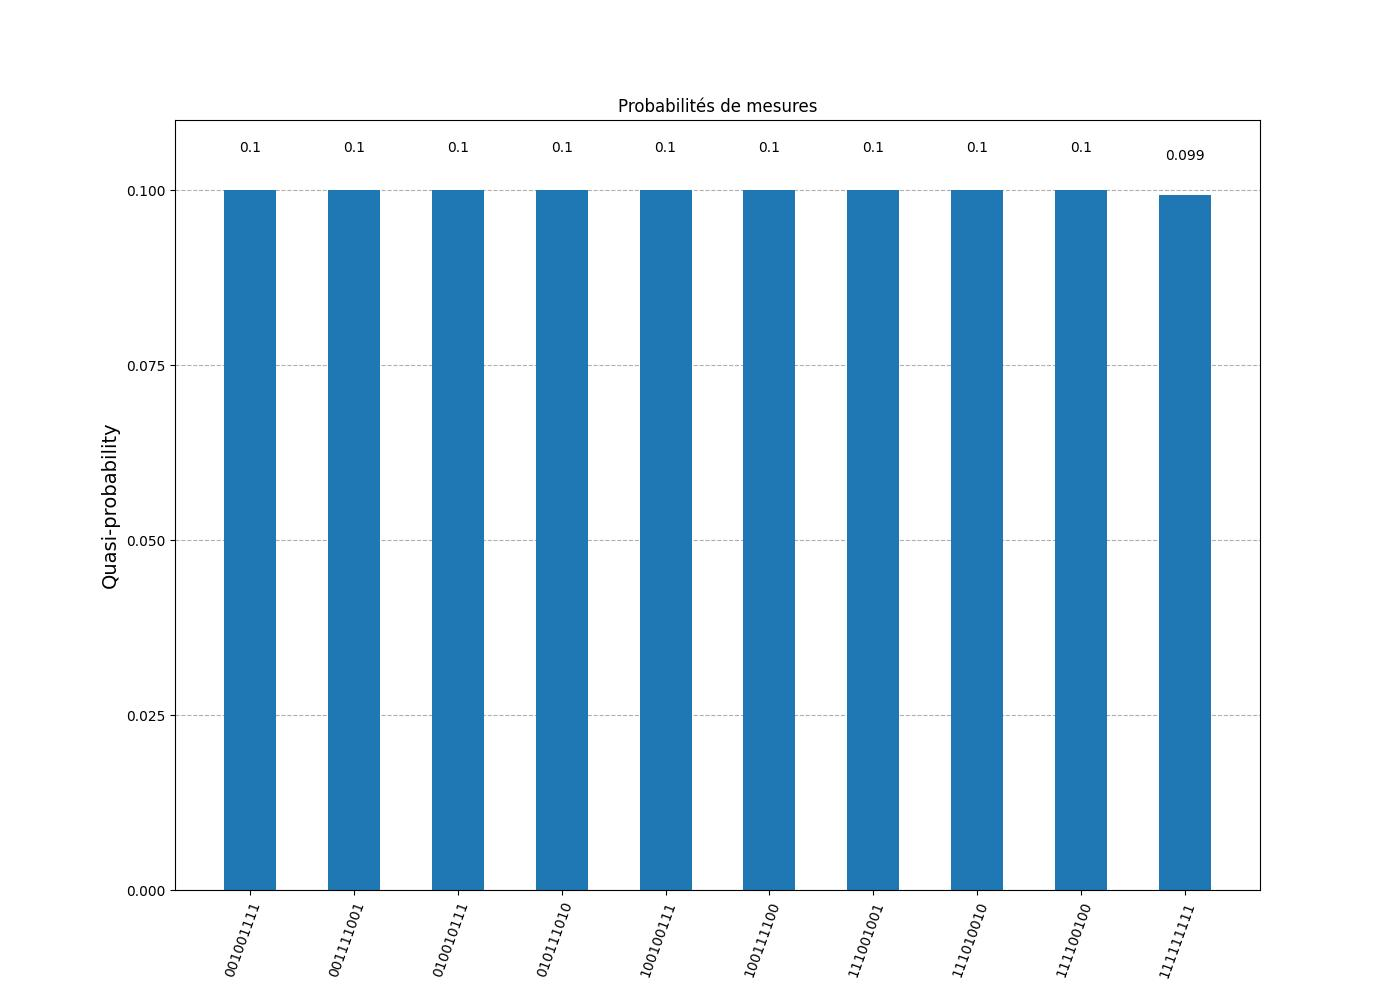
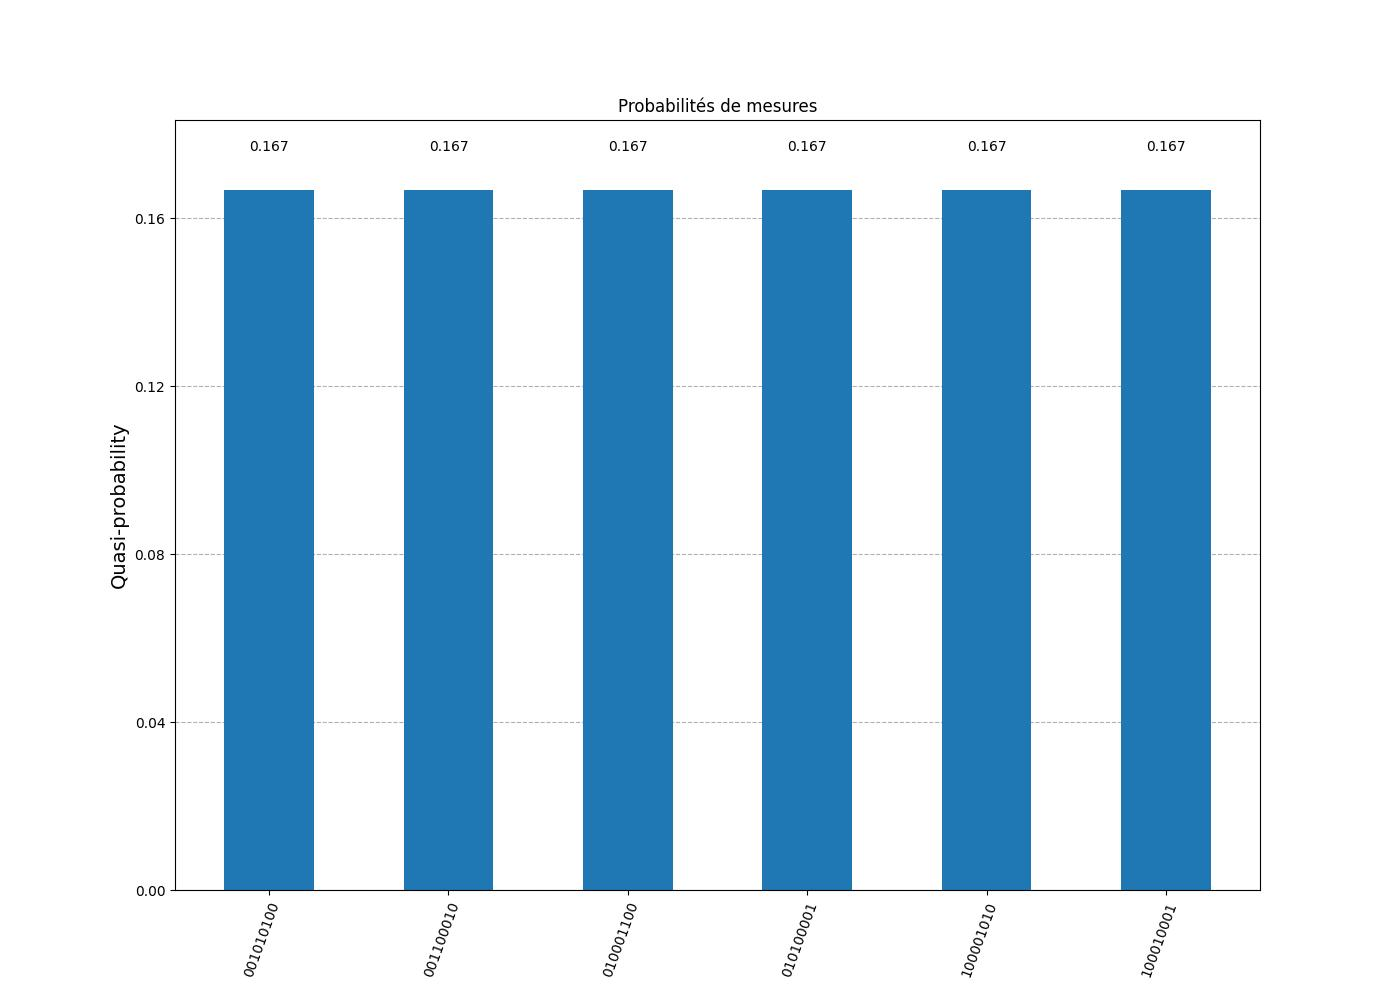
fixed oracle solution

diff --git a/sudoku_3x3.py b/sudoku_3x3.py
@@ -18,40 +18,49 @@ def draw_histogram(qc: QuantumCircuit, file_name):
     # On formate attribues les probabilités à leurs vecteur d'états associé (ex: 7 = 0111)
     probabilites = {format(i, "09b"): probabilites[i] for i in range(512)}
 
-    probabilites = dict(filter(lambda item: item[1] > 0.004, probabilites.items()))
+    # si on veut filtrer les probabilitées pour seulement afficher ceux en haut d'un certain seuil
+    probabilites = dict(filter(lambda item: item[1] > 0.002, probabilites.items()))
 
     plot_histogram(probabilites, figsize=(14,10), title="Probabilités de mesures", filename=output_path)
     print("Un histogramme illustrant les probabilités de résultat à été généré à ", output_path)
 
+# Contraintes sur les lignes et colonnes
+def valider_condition(qc, qubits, ancilla):
+    a, b, c = qubits
+
+    # avec les XOR (cnot), on vérifie qu'il y a un ou trois 1 sur la ligne/colonne
+    qc.cx(a, ancilla)
+    qc.cx(b, ancilla)
+    qc.cx(c, ancilla)
+
+    # avec un CCCNOT, on retire le fait que trois 1 est valide
+    qc.mcx([a, b, c], ancilla)
+
 def oracle_sudoku(qc: QuantumCircuit) -> QuantumCircuit:
-    c_nots = []
 
-    # Contraintes sur les lignes
-    c_nots.extend([[0,9], [1,9], [2,9]])    # ligne#1 ne doit pas avoir tout des 0 et ne doit pas avoir deux 1
-    qc.mcx([0,1,2], 9)                      # ligne#1 ne doit pas contenir trois 1
-    c_nots.extend([[3,10], [4,10], [5,10]]) # ligne#2 ne doit pas avoir tout des 0 et ne doit pas avoir deux 1
-    qc.mcx([3,4,5], 10)                     # ligne#2 ne doit pas contenir trois 1
-    c_nots.extend([[6,11], [7,11], [8,11]]) # ligne#3 ne doit pas avoir tout des 0 et ne doit pas avoir deux 1
-    qc.mcx([6,7,8], 11)                     # ligne#3 ne doit pas contenir trois 1
+    # valider les conditions sur les lignes
+    valider_condition(qc, [0,1,2], 9)
+    valider_condition(qc, [3,4,5], 10)
+    valider_condition(qc, [6,7,8], 11)
 
-    # Contraintes sur les colonnes
-    c_nots.extend([[0,12], [3,12], [6,12]]) # colonne#1 ne doit pas avoir tout des 0 et ne doit pas avoir deux 1
-    qc.mcx([0,3,6], 12)                     # colonne#1 ne doit pas contenir trois 1
-    c_nots.extend([[1,13], [4,13], [7,13]]) # colonne#2 ne doit pas avoir tout des 0 et ne doit pas avoir deux 1
-    qc.mcx([1,4,7], 13)                     # colonne#2 ne doit pas contenir trois 1
-    c_nots.extend([[2,14], [5,14], [8,14]]) # colonne#3 ne doit pas avoir tout des 0 et ne doit pas avoir deux 1
-    qc.mcx([2,5,8], 14)                     # colonne#3 ne doit pas contenir trois 1
+    # valider les conditions sur les colonnes
+    valider_condition(qc, [0,3,6], 12)
+    valider_condition(qc, [1,4,7], 13)
+    valider_condition(qc, [2,5,8], 14)
     
-    # On ajoute les c_nots au circuit
-    for c_not in c_nots:
-        qc.cx(c_not[0], c_not[1])
 
     # On ajoute le CCCCNOT qui vérifie toutes les conditions
     qc.mcx([9,10,11,12,13,14], 15)
 
-    # On ajoute les c_nots
-    for c_not in c_nots:
-        qc.cx(c_not[0], c_not[1])
+    # on défait les conditions sur les lignes
+    valider_condition(qc, [0,1,2], 9)
+    valider_condition(qc, [3,4,5], 10)
+    valider_condition(qc, [6,7,8], 11)
+
+    # on défait les conditions sur les colonnes
+    valider_condition(qc, [0,3,6], 12)
+    valider_condition(qc, [1,4,7], 13)
+    valider_condition(qc, [2,5,8], 14)
 
     return qc
 
